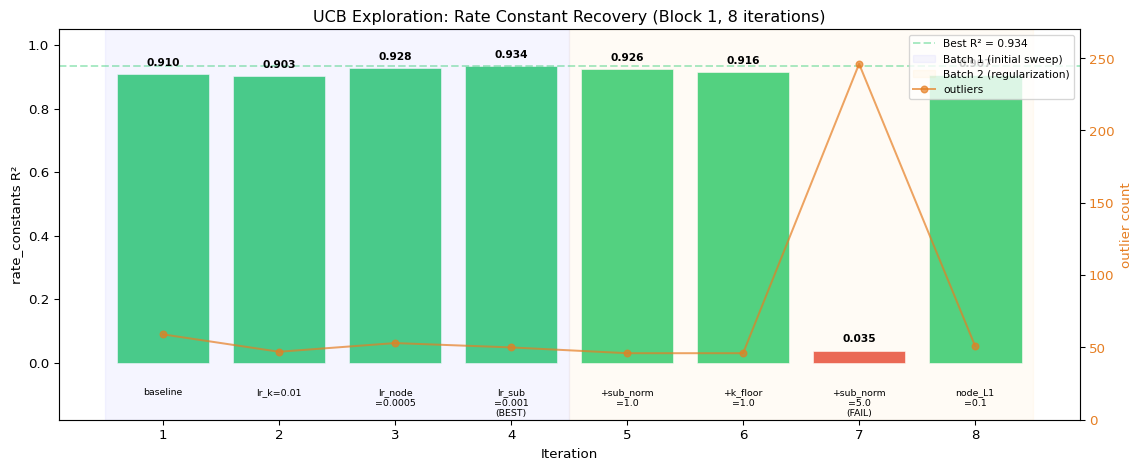
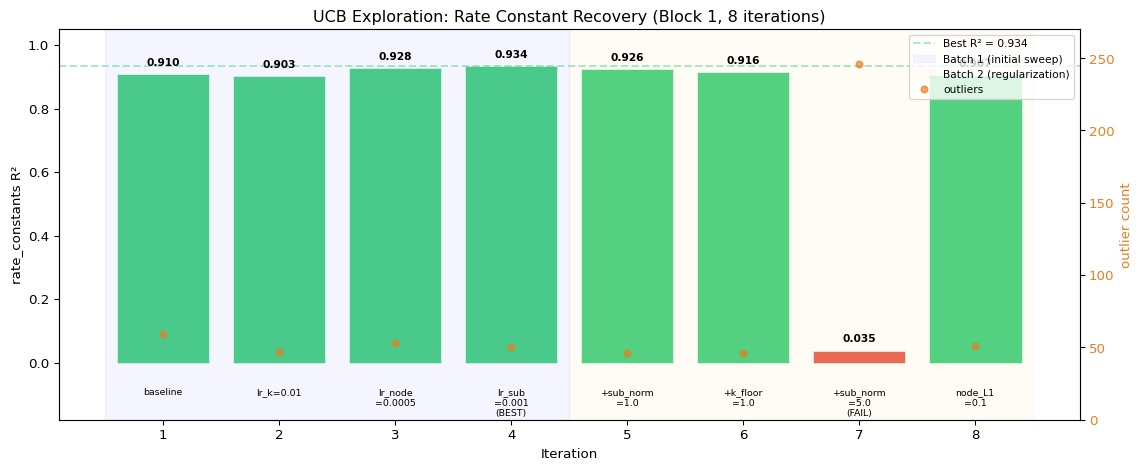
Remove mermaid diagrams, replace aggr with prod in equations
- index.qmd: remove GNN Parameterization mermaid flowchart, Configuration
  yaml block, and Key Features section
- model.qmd, index.qmd: change aggr to \prod in GNN equations
- results.qmd: remove line connecting outlier markers in iteration chart
- Update rendered site

diff --git a/docs/index.html b/docs/index.html
@@ -202,9 +202,7 @@ window.Quarto = {
   <ul class="collapse">
   <li><a href="#gnn-parameterization" id="toc-gnn-parameterization" class="nav-link" data-scroll-target="#gnn-parameterization">GNN Parameterization</a></li>
   <li><a href="#learnable-parameters" id="toc-learnable-parameters" class="nav-link" data-scroll-target="#learnable-parameters">Learnable Parameters</a></li>
-  <li><a href="#configuration" id="toc-configuration" class="nav-link" data-scroll-target="#configuration">Configuration</a></li>
   </ul></li>
-  <li><a href="#key-features" id="toc-key-features" class="nav-link" data-scroll-target="#key-features">Key Features</a></li>
   <li><a href="#citation" id="toc-citation" class="nav-link" data-scroll-target="#citation">Citation</a></li>
   </ul>
 </nav>
@@ -335,41 +333,14 @@ window.Quarto = {
 <p>We address this by casting the inverse problem as a <strong>Graph Neural Network</strong> learning task. The metabolic network is naturally a bipartite graph (metabolites <span class="math inline">\(\leftrightarrow\)</span> reactions), and we replace the unknown functions with learnable MLPs that operate on this graph structure. The GNN is trained end-to-end by minimizing the prediction error on <span class="math inline">\(dc/dt\)</span>, recovering the rate constants and homeostatic functions simultaneously. An LLM-driven closed-loop exploration engine systematically searches the hyperparameter space — see <a href="./gnn-llm-memory.html">GNN-LLM-Memory</a> for the training scheme, regularization terms, and exploration loop.</p>
 <section id="gnn-parameterization" class="level3">
 <h3 class="anchored" data-anchor-id="gnn-parameterization">GNN Parameterization</h3>
-<div class="cell" data-fig-width="8" data-layout-align="default">
-<div class="cell-output-display">
-<div>
-<p></p><figure class="figure"><p></p>
-<div>
-<pre class="mermaid mermaid-js">flowchart LR
-    C["cₖ"] --&gt; SUB["MLP_sub&lt;br/&gt;(cₖ, |Sₖⱼ|)"]
-    SUB --&gt; AGG["aggr&lt;br/&gt;Σ / Π"]
-    AGG --&gt; K["× kⱼ"]
-    K --&gt; S["× Sᵢⱼ&lt;br/&gt;Σⱼ"]
-    NODE["MLP_node&lt;br/&gt;(cᵢ, aᵢ)"] --&gt; OUT(["dcᵢ/dt"])
-    S --&gt; OUT
-
-    style C fill:#e1f5fe,stroke:#0277bd
-    style SUB fill:#f3e5f5,stroke:#7b1fa2
-    style AGG fill:#fff3e0,stroke:#ef6c00
-    style K fill:#fff3e0,stroke:#ef6c00
-    style S fill:#e8f5e9,stroke:#2e7d32
-    style NODE fill:#f3e5f5,stroke:#7b1fa2
-    style OUT fill:#fce4ec,stroke:#c62828
-</pre>
-</div>
-<p></p></figure><p></p>
-</div>
-</div>
-</div>
-<p>Substrate concentrations flow through <strong>MLP_sub</strong> (purple), are aggregated per-reaction and scaled by <strong><span class="math inline">\(k_j\)</span></strong> (orange), then mixed via stoichiometry <strong><span class="math inline">\(S\)</span></strong> (green). <strong>MLP_node</strong> (purple) adds homeostatic regulation. The output is <span class="math inline">\(dc/dt\)</span> (red).</p>
 <p><span class="math display">\[
-\frac{dc_i}{dt} = \underbrace{\text{MLP}_{\text{node}}(c_i, a_i)}_{\text{learns } -\lambda_i(c_i - c_i^{\text{baseline}})} + \sum_{j=1}^{m} S_{ij} \cdot \underbrace{k_j \cdot \underset{k \in \text{sub}(j)}{\text{aggr}} \; \text{MLP}_{\text{sub}}(c_k, |S_{kj}|)}_{\text{learns } k_j \text{ and } c_k^{|S_{kj}|}}
+\frac{dc_i}{dt} = \underbrace{\text{MLP}_{\text{node}}(c_i, a_i)}_{\text{learns } -\lambda_i(c_i - c_i^{\text{baseline}})} + \sum_{j=1}^{m} S_{ij} \cdot \underbrace{k_j \cdot \prod_{k \in \text{sub}(j)} \text{MLP}_{\text{sub}}(c_k, |S_{kj}|)}_{\text{learns } k_j \text{ and } c_k^{|S_{kj}|}}
 \]</span></p>
 <p>where:</p>
 <ul>
 <li><span class="math inline">\(a_i \in \mathbb{R}^d\)</span> is a <strong>learnable embedding</strong> for metabolite <span class="math inline">\(i\)</span></li>
 <li><span class="math inline">\(k_j\)</span> are <strong>learnable rate constants</strong></li>
-<li><span class="math inline">\(\text{aggr}\)</span> is sum (additive) or product (multiplicative)</li>
+<li><span class="math inline">\(\prod\)</span> denotes multiplicative aggregation (mass-action kinetics)</li>
 </ul>
 </section>
 <section id="learnable-parameters" class="level3">
@@ -411,38 +382,16 @@ window.Quarto = {
 </tbody>
 </table>
 </section>
-<section id="configuration" class="level3">
-<h3 class="anchored" data-anchor-id="configuration">Configuration</h3>
-<div class="sourceCode" id="cb1"><pre class="sourceCode yaml code-with-copy"><code class="sourceCode yaml"><span id="cb1-1"><a href="#cb1-1" aria-hidden="true" tabindex="-1"></a><span class="fu">graph_model</span><span class="kw">:</span></span>
-<span id="cb1-2"><a href="#cb1-2" aria-hidden="true" tabindex="-1"></a><span class="at">  </span><span class="fu">aggr_type</span><span class="kw">:</span><span class="at"> add</span><span class="co">         # sum (additive) or mul (multiplicative)</span></span>
-<span id="cb1-3"><a href="#cb1-3" aria-hidden="true" tabindex="-1"></a><span class="at">  </span><span class="fu">embedding_dim</span><span class="kw">:</span><span class="at"> </span><span class="dv">2</span><span class="co">       # dimension of metabolite embeddings a_i</span></span>
-<span id="cb1-4"><a href="#cb1-4" aria-hidden="true" tabindex="-1"></a><span class="at">  </span><span class="fu">hidden_dim</span><span class="kw">:</span><span class="at"> </span><span class="dv">32</span></span>
-<span id="cb1-5"><a href="#cb1-5" aria-hidden="true" tabindex="-1"></a></span>
-<span id="cb1-6"><a href="#cb1-6" aria-hidden="true" tabindex="-1"></a><span class="fu">training</span><span class="kw">:</span></span>
-<span id="cb1-7"><a href="#cb1-7" aria-hidden="true" tabindex="-1"></a><span class="at">  </span><span class="fu">learning_rate_start</span><span class="kw">:</span><span class="at"> </span><span class="fl">0.001</span></span>
-<span id="cb1-8"><a href="#cb1-8" aria-hidden="true" tabindex="-1"></a><span class="at">  </span><span class="fu">freeze_stoichiometry</span><span class="kw">:</span><span class="at"> </span><span class="ch">true</span><span class="co">   # S given mode</span></span>
-<span id="cb1-9"><a href="#cb1-9" aria-hidden="true" tabindex="-1"></a><span class="at">  </span><span class="fu">training_single_type</span><span class="kw">:</span><span class="at"> </span><span class="ch">false</span><span class="co">  # learn per-metabolite embeddings</span></span></code><button title="Copy to Clipboard" class="code-copy-button"><i class="bi"></i></button></pre></div>
-</section>
-</section>
-<section id="key-features" class="level2">
-<h2 class="anchored" data-anchor-id="key-features">Key Features</h2>
-<ul>
-<li><strong>Bipartite graph representation</strong>: metabolites and reactions form a bipartite graph, with stoichiometric coefficients on edges</li>
-<li><strong>Learnable rate constants</strong>: per-reaction <span class="math inline">\(k_j\)</span> learned via gradient descent</li>
-<li><strong>Learnable homeostasis</strong>: MLP learns <span class="math inline">\(-\lambda_i(c_i - c_i^{\text{baseline}})\)</span> per metabolite</li>
-<li><strong>Flexible aggregation</strong>: additive (sum) or multiplicative (product) for different dynamics</li>
-<li><strong>Metabolite embeddings</strong>: learnable vectors <span class="math inline">\(a_i\)</span> capture per-metabolite identity</li>
-</ul>
 </section>
 <section id="citation" class="level2">
 <h2 class="anchored" data-anchor-id="citation">Citation</h2>
 <p>If you use MetabolismGraph in your research, please cite:</p>
-<div class="sourceCode" id="cb2"><pre class="sourceCode bibtex code-with-copy"><code class="sourceCode bibtex"><span id="cb2-1"><a href="#cb2-1" aria-hidden="true" tabindex="-1"></a><span class="co">@software{metabolismgraph2025,</span></span>
-<span id="cb2-2"><a href="#cb2-2" aria-hidden="true" tabindex="-1"></a><span class="co">  author = {Allier, Cédric},</span></span>
-<span id="cb2-3"><a href="#cb2-3" aria-hidden="true" tabindex="-1"></a><span class="co">  title = {MetabolismGraph: Learning Metabolism Dynamics with GNNs},</span></span>
-<span id="cb2-4"><a href="#cb2-4" aria-hidden="true" tabindex="-1"></a><span class="co">  year = {2026},</span></span>
-<span id="cb2-5"><a href="#cb2-5" aria-hidden="true" tabindex="-1"></a><span class="co">  url = {https://github.com/allierc/MetabolismGraph}</span></span>
-<span id="cb2-6"><a href="#cb2-6" aria-hidden="true" tabindex="-1"></a><span class="co">}</span></span></code><button title="Copy to Clipboard" class="code-copy-button"><i class="bi"></i></button></pre></div>
+<div class="sourceCode" id="cb1"><pre class="sourceCode bibtex code-with-copy"><code class="sourceCode bibtex"><span id="cb1-1"><a href="#cb1-1" aria-hidden="true" tabindex="-1"></a><span class="co">@software{metabolismgraph2025,</span></span>
+<span id="cb1-2"><a href="#cb1-2" aria-hidden="true" tabindex="-1"></a><span class="co">  author = {Allier, Cédric},</span></span>
+<span id="cb1-3"><a href="#cb1-3" aria-hidden="true" tabindex="-1"></a><span class="co">  title = {MetabolismGraph: Learning Metabolism Dynamics with GNNs},</span></span>
+<span id="cb1-4"><a href="#cb1-4" aria-hidden="true" tabindex="-1"></a><span class="co">  year = {2026},</span></span>
+<span id="cb1-5"><a href="#cb1-5" aria-hidden="true" tabindex="-1"></a><span class="co">  url = {https://github.com/allierc/MetabolismGraph}</span></span>
+<span id="cb1-6"><a href="#cb1-6" aria-hidden="true" tabindex="-1"></a><span class="co">}</span></span></code><button title="Copy to Clipboard" class="code-copy-button"><i class="bi"></i></button></pre></div>
 
 
 </section>

diff --git a/docs/results.html b/docs/results.html
@@ -240,7 +240,7 @@ window.Quarto = {
 
 <section id="rate-constant-recovery-oscillatory-regime-rank-50" class="level2">
 <h2 class="anchored" data-anchor-id="rate-constant-recovery-oscillatory-regime-rank-50">Rate Constant Recovery — Oscillatory Regime (rank 50)</h2>
-<p>The LLM-driven exploration engine is running on the <strong>oscillatory regime</strong> (activity rank $$50): 100 metabolites, 256 autocatalytic reactions, 2880 time frames, mass-action kinetics with the stoichiometric matrix <span class="math inline">\(\mathbf{S}\)</span> frozen from ground truth. The goal is to recover the 256 rate constants <span class="math inline">\(k_j \in [10^{-2}, 10^{-1}]\)</span> by optimizing training hyperparameters through UCB tree search with 4 parallel slots.</p>
+<p>The LLM-driven exploration engine is running on the <strong>oscillatory regime</strong> (activity rank <span class="math inline">\(\sim50\)</span>): 100 metabolites, 256 autocatalytic reactions, 2880 time frames, mass-action kinetics with the stoichiometric matrix <span class="math inline">\(\mathbf{S}\)</span> frozen from ground truth. The goal is to recover the 256 rate constants <span class="math inline">\(k_j \in [10^{-2}, 10^{-1}]\)</span> by optimizing training hyperparameters through UCB tree search with 4 parallel slots.</p>
 <p><strong>8 iterations completed</strong> (Block 1). The exploration is ongoing.</p>
 <section id="simulation-setup" class="level3">
 <h3 class="anchored" data-anchor-id="simulation-setup">Simulation Setup</h3>
@@ -421,7 +421,7 @@ Figure&nbsp;8: UCB tree after 8 iterations. Node 4 (<span class="math inline">\(
 <span id="cb1-43"><a href="#cb1-43" aria-hidden="true" tabindex="-1"></a></span>
 <span id="cb1-44"><a href="#cb1-44" aria-hidden="true" tabindex="-1"></a><span class="co"># outlier count on secondary axis</span></span>
 <span id="cb1-45"><a href="#cb1-45" aria-hidden="true" tabindex="-1"></a>ax2 <span class="op">=</span> ax1.twinx()</span>
-<span id="cb1-46"><a href="#cb1-46" aria-hidden="true" tabindex="-1"></a>ax2.plot(iters, outliers, <span class="st">'o-'</span>, color<span class="op">=</span><span class="st">'#e67e22'</span>, linewidth<span class="op">=</span><span class="fl">1.5</span>, markersize<span class="op">=</span><span class="dv">5</span>, alpha<span class="op">=</span><span class="fl">0.7</span>, label<span class="op">=</span><span class="st">'outliers'</span>)</span>
+<span id="cb1-46"><a href="#cb1-46" aria-hidden="true" tabindex="-1"></a>ax2.plot(iters, outliers, <span class="st">'o'</span>, color<span class="op">=</span><span class="st">'#e67e22'</span>, markersize<span class="op">=</span><span class="dv">5</span>, alpha<span class="op">=</span><span class="fl">0.7</span>, label<span class="op">=</span><span class="st">'outliers'</span>)</span>
 <span id="cb1-47"><a href="#cb1-47" aria-hidden="true" tabindex="-1"></a>ax2.set_ylabel(<span class="st">'outlier count'</span>, color<span class="op">=</span><span class="st">'#e67e22'</span>)</span>
 <span id="cb1-48"><a href="#cb1-48" aria-hidden="true" tabindex="-1"></a>ax2.tick_params(axis<span class="op">=</span><span class="st">'y'</span>, labelcolor<span class="op">=</span><span class="st">'#e67e22'</span>)</span>
 <span id="cb1-49"><a href="#cb1-49" aria-hidden="true" tabindex="-1"></a>ax2.set_ylim(<span class="dv">0</span>, <span class="dv">270</span>)</span>

diff --git a/docs/model.html b/docs/model.html
@@ -614,7 +614,7 @@ v_j = k_j \cdot \prod_{k \in \text{sub}(j)} c_k^{|S_{kj}|}
 <h3 class="anchored" data-anchor-id="what-the-gnn-learns">What the GNN Learns</h3>
 <p>The forward model is:</p>
 <p><span class="math display">\[
-\frac{dc_i}{dt} = \underbrace{\text{MLP}_{\text{node}}(c_i, a_i)}_{\text{learns } -\lambda_i(c_i - c_i^{\text{baseline}})} + \sum_{j=1}^{m} S_{ij} \cdot \underbrace{k_j \cdot \underset{k \in \text{sub}(j)}{\text{aggr}} \; \text{MLP}_{\text{sub}}(c_k, |S_{kj}|)}_{\text{learns } k_j \text{ and } c_k^{|S_{kj}|}}
+\frac{dc_i}{dt} = \underbrace{\text{MLP}_{\text{node}}(c_i, a_i)}_{\text{learns } -\lambda_i(c_i - c_i^{\text{baseline}})} + \sum_{j=1}^{m} S_{ij} \cdot \underbrace{k_j \cdot \prod_{k \in \text{sub}(j)} \text{MLP}_{\text{sub}}(c_k, |S_{kj}|)}_{\text{learns } k_j \text{ and } c_k^{|S_{kj}|}}
 \]</span></p>
 <p>The GNN replaces the known functions with learnable MLPs, and the rate constants with learnable parameters. It must recover all three simultaneously from concentration data alone:</p>
 <p><strong>1. Substrate function</strong> <span class="math inline">\(f_{\text{sub}} \to \text{MLP}_{\text{sub}}(c_k, |S_{kj}|)\)</span></p>
